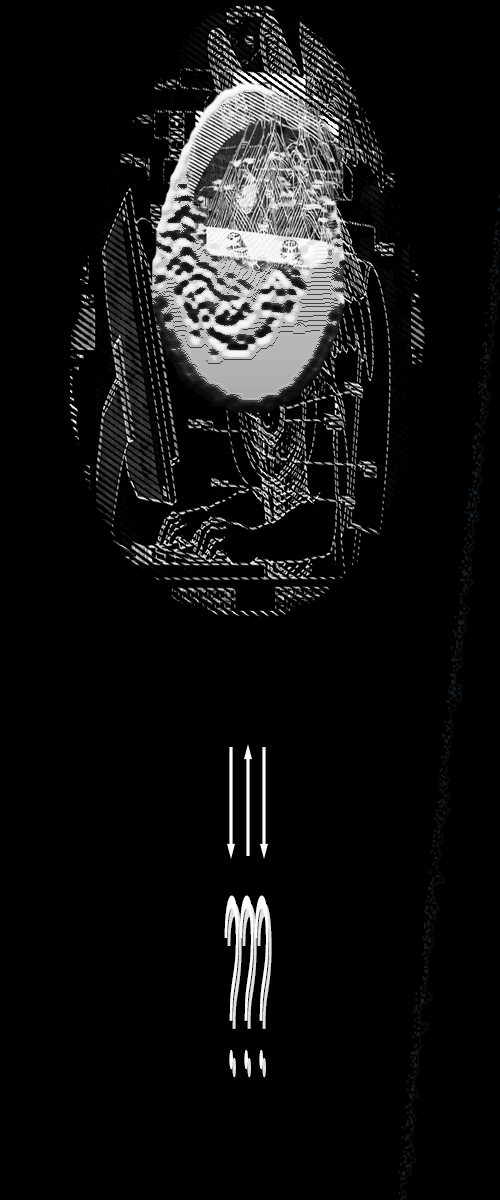
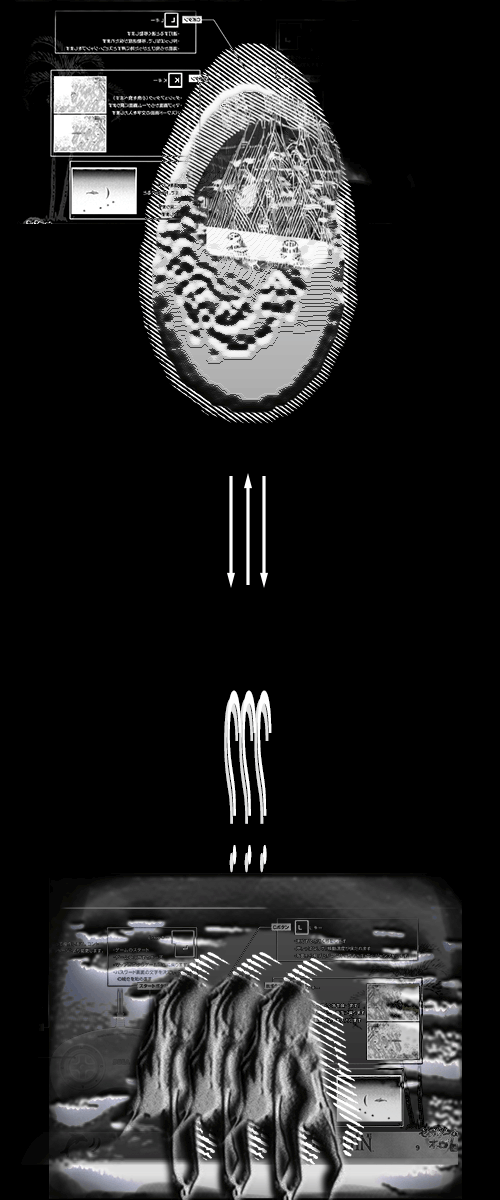
Mirror world01bw2, teatro video flip + bbox chair seating, Super_Me_Era 50° tilt & text scale, bubblepicking room 4 1.82 height, fetal camera 180°
- style.css #world-00-overlay-right: mirrored to right side with matching 85% height / vertical centering (was 30% top-strip) so world01bw2.png renders at the same scale as world01bw.png on the left
- assets/BWUI/world01bw.png & world01bw2.png: updated textures
- world-01-teatro (03_PresentationClub):
  * VideoTexture vertical flip (repeat.y=-1, offset.y=1)
  * seat snap now uses world Box3 centroid + 55% chair-height seat-surface estimate — stable even when the new GLB chair pivots are baked off-center (fixes back-row clicks landing on middle-row and middle-row jumping upward)
- world-02-array3d (Super_Me_Era):
  * camera tilt updated to 50° → lookAt (0, -0.98, 1.71)
  * floating text scale 0.61–0.83, rotation removed (--rot always 0deg)
- world09 (bubblepicking) room 4: height size*1.3 → size*1.82 (+40%)
- world-03-tunnel (08_fetal_situation): camera init pos (0,1.4,1.4) → (0,1.4,-1.4), 180° around the bathtub
- cache-busters: style v46, teatro v11, array3d v42, tunnel v13, world09 v8

Changed region(s): [[0.09, 0.555, 0.93, 1.0], [0.06, 0.0, 0.78, 0.5242], [0.81, 0.2467, 0.84, 0.3083]]

diff --git a/worlds/world-01-teatro.js b/worlds/world-01-teatro.js
@@ -91,6 +91,11 @@ const WorldTeatro = {
     this._videoTex.minFilter = THREE.LinearFilter;
     this._videoTex.magFilter = THREE.LinearFilter;
     this._videoTex.format = THREE.RGBAFormat;
+    // Vertical flip del video (alineado al nuevo orientado del Plane del GLB)
+    this._videoTex.wrapS = THREE.RepeatWrapping;
+    this._videoTex.wrapT = THREE.RepeatWrapping;
+    this._videoTex.repeat.y = -1;
+    this._videoTex.offset.y = 1;
 
     const screenMaterial = new THREE.MeshBasicMaterial({ map: this._videoTex });
 
@@ -351,16 +356,19 @@ const WorldTeatro = {
       if (this._video.paused) this._video.play().catch(e => console.log(e));
     }
 
-    // Use the chair GROUP's world position for X/Z — this is more reliable than
-    // hitPoint.z, which was causing back-row chairs (5&6) to snap to middle-row
-    // (3&4) position. The group node transform gives the correct row position.
-    // Use hitPoint.y (if available) for the seat surface height, since rows may
-    // sit at different elevations.
-    const chairWorldPos = new THREE.Vector3();
-    chairGroup.getWorldPosition(chairWorldPos);
-
-    const seatY = hitPoint ? hitPoint.y : chairWorldPos.y;
-    const chairPos = new THREE.Vector3(chairWorldPos.x, seatY + 0.9, chairWorldPos.z);
+    // Use the chair's BOUNDING BOX (world space) to compute the seat position.
+    // chairGroup.getWorldPosition() returns the transform origin, which in the
+    // new teatro.glb is baked to different spots per chair (causing back-row
+    // clicks to land on middle-row and middle-row to jump upward). The bbox
+    // centroid is stable regardless of the group's local pivot.
+    const bbox = new THREE.Box3().setFromObject(chairGroup);
+    const bboxCenter = bbox.getCenter(new THREE.Vector3());
+    const seatTopY   = bbox.max.y;           // top of the chair
+    const seatBaseY  = bbox.min.y;           // floor the chair sits on
+    // Seated eye height ≈ seat surface + 0.9. Approximate seat surface as
+    // 55% up the chair height (typical chair proportion seat/backrest).
+    const seatSurfaceY = seatBaseY + (seatTopY - seatBaseY) * 0.55;
+    const chairPos = new THREE.Vector3(bboxCenter.x, seatSurfaceY + 0.9, bboxCenter.z);
     if (chairPos.y < 1.0) chairPos.y = 1.0;
 
     // Fixed look target — avoids inconsistent OrbitControls behaviour caused

diff --git a/worlds/world-02-array3d.js b/worlds/world-02-array3d.js
@@ -59,15 +59,14 @@ export default {
     this.scene.background = new THREE.Color(0x020612);
     this.scene.fog = new THREE.Fog(0x001040, 8, 26);
 
-    // ── Camera — moderate fisheye FOV 95, tilted down ──
-    // Fixed pose. Target baked so look direction includes the 23° downward tilt.
-    // pos=(0,2.7,4.8) · total tilt ≈ 45.5° down → target ≈ (0,-0.72,1.44)
+    // ── Camera — moderate fisheye FOV 95, tilt 50° down ──
+    // pos=(0,2.7,4.8) · 50° downward tilt → target = pos + (0,-sin50°,-cos50°)*4.8
+    //                                              ≈ (0, -0.98, 1.71)
     this.camera = new THREE.PerspectiveCamera(95, W / H, 0.1, 100);
     this.camera.position.set(0, 2.7, 4.8);
-    this.camera.lookAt(0, -0.72, 1.44);
-    // Snapshot the desired pose so update() can reassert every frame.
+    this.camera.lookAt(0, -0.98, 1.71);
     this._fixedCamPos  = new THREE.Vector3(0, 2.7, 4.8);
-    this._fixedCamLook = new THREE.Vector3(0, -0.72, 1.44);
+    this._fixedCamLook = new THREE.Vector3(0, -0.98, 1.71);
 
     // ── Lighting (slightly glowier) ──
     this.scene.add(new THREE.AmbientLight(0x334466, 3.4));
@@ -383,13 +382,10 @@ export default {
     img.style.left = randX + '%';
     img.style.top  = randY + '%';
 
-    // Scale variation: 0.21–0.63 (30% smaller than before: was 0.3–0.9).
-    // Values flow through CSS vars so the keyframe animation keeps them
-    // (previously the 100% keyframe forced scale(1), overriding inline scale).
-    const scale = 0.21 + Math.random() * 0.42;
-    const rotation = (Math.random() - 0.5) * 6;
+    // Scale variation: 0.61–0.83 (no rotation, per spec).
+    const scale = 0.61 + Math.random() * 0.22;
     img.style.setProperty('--s',   scale);
-    img.style.setProperty('--rot', rotation + 'deg');
+    img.style.setProperty('--rot', '0deg');
 
     container.appendChild(img);
     this._spawnedTexts.push(img);

diff --git a/index.js b/index.js
@@ -7,7 +7,7 @@ import { getTime } from './core/clock.js';
 import { WorldManager } from './core/worldManager.js';
 import { deviceProfile } from './core/deviceProfile.js';
 import { ResizeManager } from './core/resizeManager.js';
-import { bubblepicking } from './worlds/world09.js?v=7';
+import { bubblepicking } from './worlds/world09.js?v=8';
 import { createPlaceholder } from './worlds/world-placeholder.js';
 import { uiSound } from './audio/uiSounds.js';
 import Spectrogram from './audio/Spectrogram.js';
@@ -72,9 +72,9 @@ if (window.matchMedia('(pointer: fine)').matches && cursor) {
 // Register all 8 worlds
 worldManager.register('0', () => import('./worlds/world-00-huevo.js?v=3').then(m => m.default));
 worldManager.register('1', () => Promise.resolve(bubblepicking));
-worldManager.register('2', () => import('./worlds/world-01-teatro.js?v=10').then(m => m.default));
-worldManager.register('3', () => import('./worlds/world-02-array3d.js?v=41').then(m => m.default));
-worldManager.register('4', () => import('./worlds/world-03-tunnel.js?v=12').then(m => m.default));
+worldManager.register('2', () => import('./worlds/world-01-teatro.js?v=11').then(m => m.default));
+worldManager.register('3', () => import('./worlds/world-02-array3d.js?v=42').then(m => m.default));
+worldManager.register('4', () => import('./worlds/world-03-tunnel.js?v=13').then(m => m.default));
 worldManager.register('5', () => import('./worlds/world-04-drawrange.js?v=2').then(m => m.default));
 worldManager.register('6', () => import('./worlds/world06.js?v=8').then(m => m.default));
 worldManager.register('7', () => import('./worlds/world07.js?v=2').then(m => m.default));

diff --git a/style.css b/style.css
@@ -995,14 +995,15 @@ body.landing-video-ready #enter-button-img {
     mix-blend-mode: screen;
 }
 
-/* World 00 — world01bw2 anchored to top-right corner, 30% of canvas height
-   (70% smaller than the full-height reference). */
+/* World 00 — world01bw2 mirrored on the right side, same scale/proportions
+   as world01bw.png on the left (85% height, vertically centered). */
 #world-00-overlay-right {
     position: absolute;
-    top: 0;
-    left: 0;
+    top: 50%;
     right: 0;
-    height: 30%;
+    left: auto;
+    height: 85%;
+    transform: translateY(-50%);
     z-index: 6;
     pointer-events: none;
     opacity: 0;

diff --git a/worlds/world09.js b/worlds/world09.js
@@ -398,8 +398,8 @@ function initRoom4(scene) {
     const items = [];
     [[-offset, 0], [offset, 0]].forEach(([dx, dz]) => {
         const size = 3.4;
-        // 30% más alto en height (Y), manteniendo width (X)
-        const geo = new THREE.PlaneGeometry(size, size * 1.3);
+        // Altura +40% respecto al último valor (1.3 → 1.82)
+        const geo = new THREE.PlaneGeometry(size, size * 1.82);
         const mat = new THREE.MeshBasicMaterial({
             map: tex, transparent: true, side: THREE.DoubleSide,
             opacity: 0.95, depthWrite: false

diff --git a/index.html b/index.html
@@ -11,7 +11,7 @@
     <title>One More Sim</title>
     <link rel="icon" type="image/png" href="assets/tex/Buttons/colorB1.png">
     <link rel="shortcut icon" type="image/png" href="assets/tex/Buttons/colorB1.png">
-    <link rel="stylesheet" href="style.css?v=45">
+    <link rel="stylesheet" href="style.css?v=46">
     <link
         href="https://fonts.googleapis.com/css2?family=Averia+Libre:ital,wght@0,300;0,400;0,700;1,300;1,400;1,700&display=swap"
         rel="stylesheet">

diff --git a/worlds/world-03-tunnel.js b/worlds/world-03-tunnel.js
@@ -29,7 +29,8 @@ const WorldBanera = {
     // ── CÁMARA — moderate fisheye, closer to bathtub ──
     // FOV: 80 | position: (0, 1.4, 1.4) | lookAt: (0, 0.0, 0)
     this.camera = new THREE.PerspectiveCamera(80, W / H, 0.1, 100)
-    this.camera.position.set(0, 1.4, 1.4)
+    // Rotada 180° alrededor de la bañera: ahora desde -z mirando hacia +z.
+    this.camera.position.set(0, 1.4, -1.4)
     this.camera.lookAt(0, 0.0, 0)
 
     // ── ESCENA BASE ──
